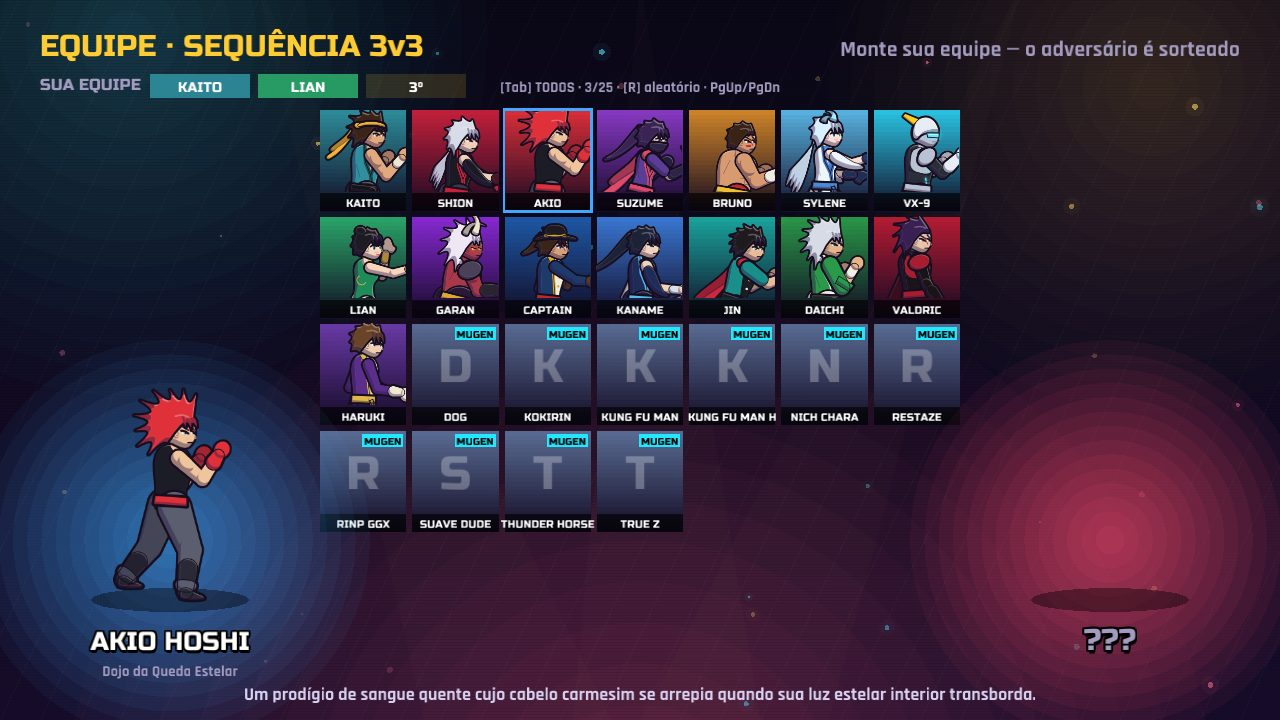
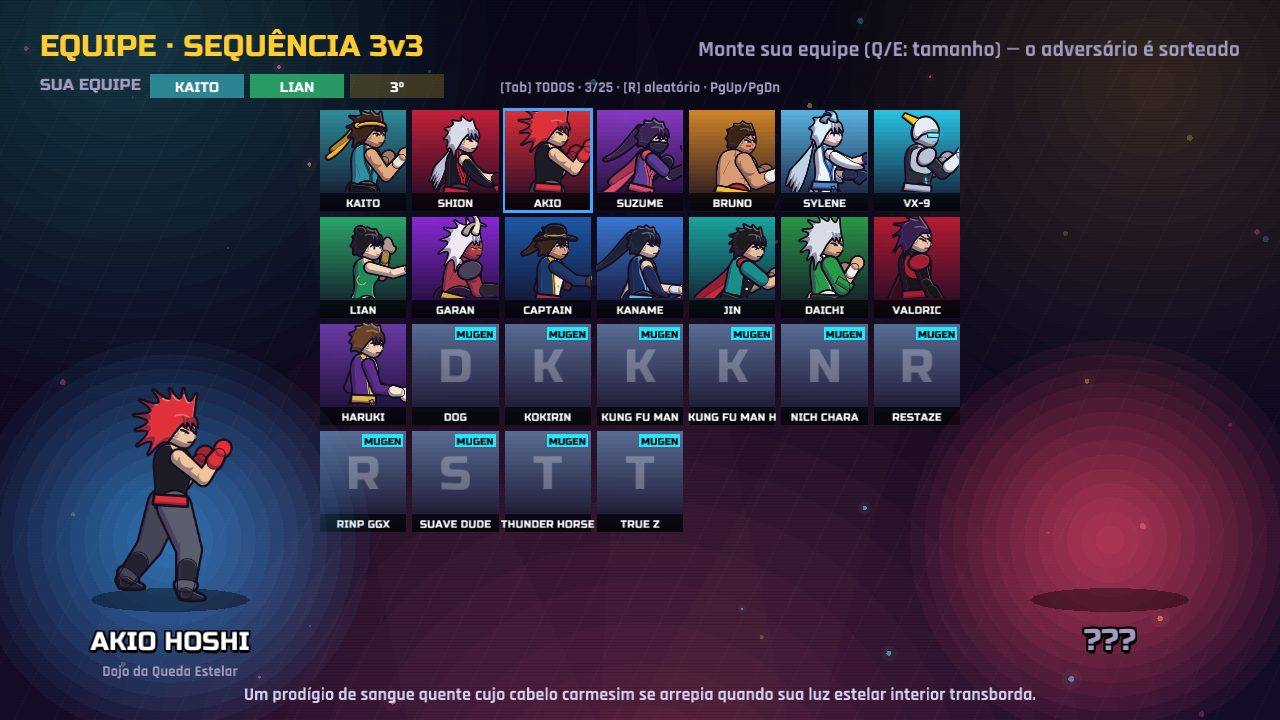
Docs and screenshots for 5v5 parallel teams and HUD v2
Claude-Session: https://claude.ai/code/session_01Cn6JQNuQujDi45zt7ta1gL

diff --git a/README.md b/README.md
@@ -15,6 +15,7 @@ Motor de luta 2D **feito do zero em Rust**, inspirado no M.U.G.E.N: moderno, mul
 | ![Impacto neon](screenshots/21-fx-neon-hit.jpg) | ![Transição](screenshots/22-transition.jpg) |
 | ![Equipe sequência](screenshots/30-team-sequence.jpg) | ![Equipe paralelo](screenshots/31-team-parallel.jpg) |
 | ![Seleção de equipe](screenshots/32-team-select.jpg) | ![Quadro de impacto](screenshots/23-impact-frame.jpg) |
+| ![5v5 paralelo](screenshots/33-team-5v5-parallel.jpg) | ![5v5 sequência](screenshots/34-team-5v5-sequence.jpg) |
 
 ## Por que Rust + macroquad
 | Requisito | Escolha |
@@ -33,7 +34,7 @@ Motor de luta 2D **feito do zero em Rust**, inspirado no M.U.G.E.N: moderno, mul
 - **Muitos personagens e cenários**: seleção com rolagem, filtro (Tab: todos/originais/M.U.G.E.N), PgUp/PgDn, roda do mouse, `R` aleatório; só as linhas visíveis são desenhadas e só o que está sob o cursor é carregado (cache LRU limita a memória). Pastas/zips importados são registrados sem decodificar tudo (centenas em segundos).
 - **Loadings rápidos**: tela de carregamento na inicialização, pré-carga por etapas atrás da tela de VS (barra de progresso), prévia leve (idle/vitória) nos menus, rasterização dos lutadores em paralelo (≈3× mais rápido) e música sintetizada antes da luta.
 - **Visual AAA** ([`docs/AAA_FEATURES.md`](docs/AAA_FEATURES.md)): pós-processamento (bloom, aberração cromática, blur radial, vinheta, grade de cor), partículas e anéis de choque em cada golpe, números de dano, *camera punch*, KO em câmera lenta com zoom, super cinematográfico com linhas de velocidade e aura, reflexos no chão, HUD animado, transições de tela e fundo vivo. Opção de acessibilidade para reduzir efeitos (Vídeo → Efeitos de impacto).
-- **Modos de equipe**: *Sequência 3v3* (estilo KOF: ordem de entrada, vencedor mantém a vida e o medidor de super compartilhado) e *Paralelo 2v2* (parceiro IA luta ao seu lado; o round acaba quando a equipe inteira cai). Ver [`docs/AAA_FEATURES.md`](docs/AAA_FEATURES.md).
+- **Modos de equipe**: *Sequência 3v3* (estilo KOF: ordem de entrada, vencedor mantém a vida e o medidor de super compartilhado) e *Paralelo até **5v5*** (10 lutadores na tela; companheiros por IA, `Tab` troca o lutador que você controla; o round acaba quando a equipe inteira cai). Ver [`docs/AAA_FEATURES.md`](docs/AAA_FEATURES.md).
 - **Áudio em camadas**: SFX sintetizados com transiente + corpo + crunch, 3 variações por golpe, reverb, stingers de round/KO/vitória, pings de combo e *ducking* da música. **HUD** com retratos reais, barras de parceiro, roster de equipe e alarmes.
 - Modos **Arcade, Versus CPU, 2 Jogadores, Treino (hitboxes), CPU vs CPU**; IA compatível com qualquer personagem.
 - **Controles**: teclado, gamepads (DualShock/DualSense com vibração em golpes, defesa, super e K.O.; lightbar azul/vermelha por jogador), toque com analógico virtual e SP1/SP2/SP3/SUPER de um toque.
@@ -63,6 +64,7 @@ Desktop: coloque pastas ou `.zip` em `mugen/` ao lado do executável (ex.: `muge
 | Especiais simples | 1 · 2 · 3 (Super: 1+2) | L1 · L2 | SP1–SP3 · SUPER |
 | Pausa / Hitboxes | Esc / F2 | OPTIONS | ❚❚ |
 | Tela cheia / FPS | F11 / F3 | — | — |
+| Trocar de lutador (equipe paralela) | Tab | — | — |
 | Lista de lutadores | Tab (filtro) · PgUp/PgDn · R (aleatório) | — | — |
 
 ## Estrutura

diff --git a/docs/AAA_FEATURES.md b/docs/AAA_FEATURES.md
@@ -74,3 +74,13 @@ Motor: `Match::team_simul`, jogadores adicionados intercalados (P1, P2, P3, P4) 
 
 ## Ideias futuras
 Assistências estilo Kameo (botão de chamar parceiro com recarga), troca de personagem (tag) no meio do combo, seleção da ordem da equipe por arrastar, modo espectador de torneio.
+
+---
+
+# Rodada 4 — equipes de até 5v5 e HUD v2
+
+- **Equipe · Paralelo** agora abre em **5v5** (2 a 5 com Q/E na seleção): 10 lutadores na tela, formação compactada para todos começarem dentro do cenário, câmera e zoom seguem todos os vivos, VFX por lutador (poeira, counter, aura de super de qualquer um). Simulação de 600 ticks com 10 lutadores em ~40 ms.
+- **Troca de controle**: `TAB` passa o controle ao próximo companheiro vivo; se o seu cair, o controle passa sozinho. A IA que dirigia o lutador é reiniciada na troca.
+- **HUD v2**: barra principal acompanha o lutador que você controla (lado inimigo: o da linha de frente); *tiles* de retrato com barra de vida para cada companheiro (o seu em dourado, caídos escurecidos com ✕); contadores vivos/total ao lado do timer; dica `TAB · TROCAR DE LUTADOR`.
+- **Na arena** (mais de 2 lutadores): barra de vida flutuante sobre cada lutador e marcador ▼ saltitante sobre o seu.
+- Fontes com filtro linear (texto escalado deixou de ficar serrilhado) e *slam* de banner mais suave.
